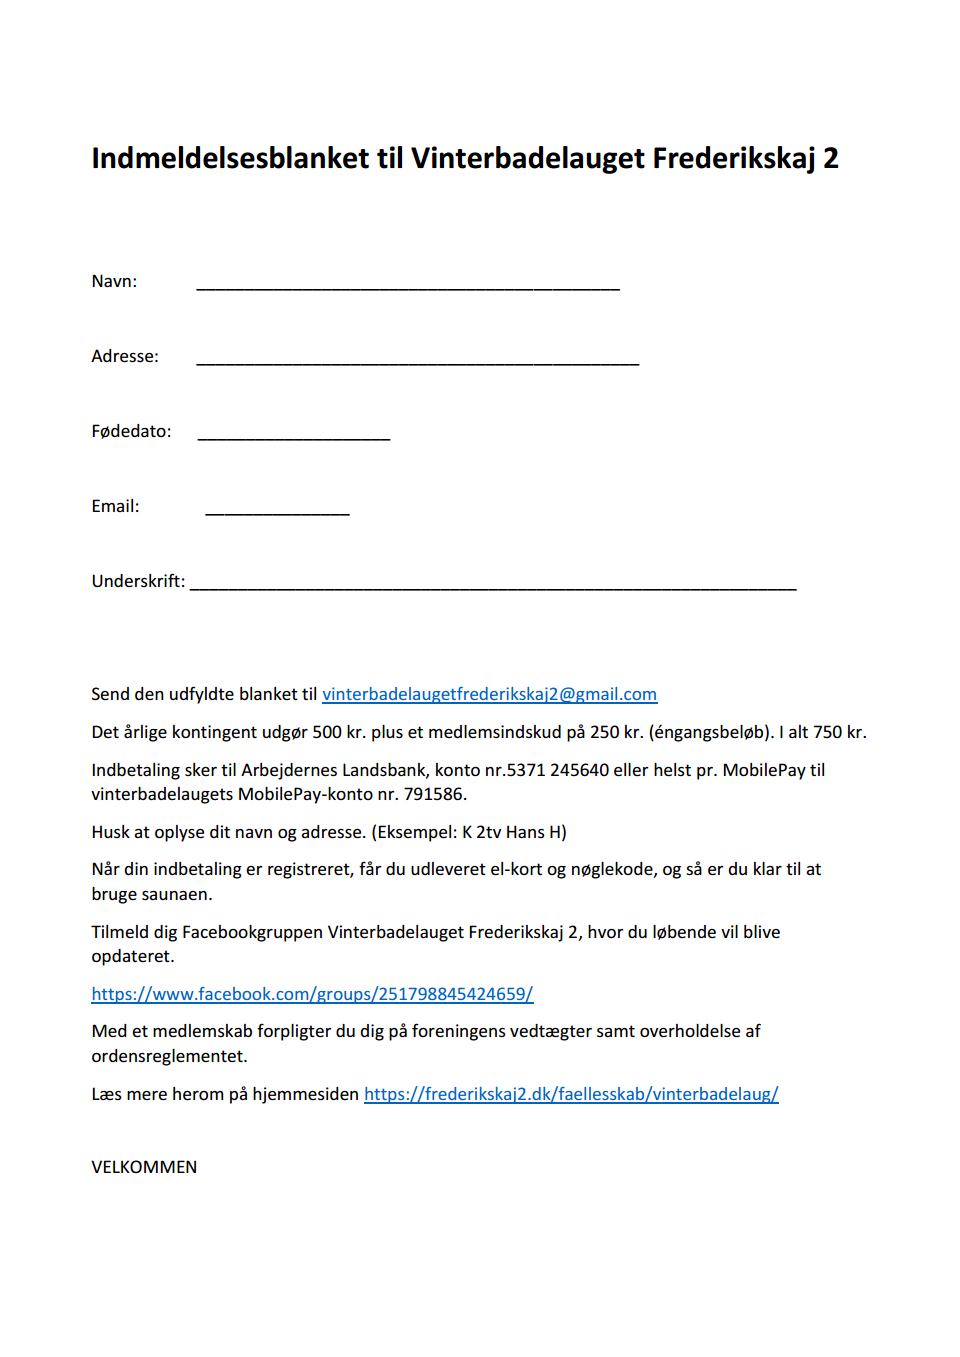
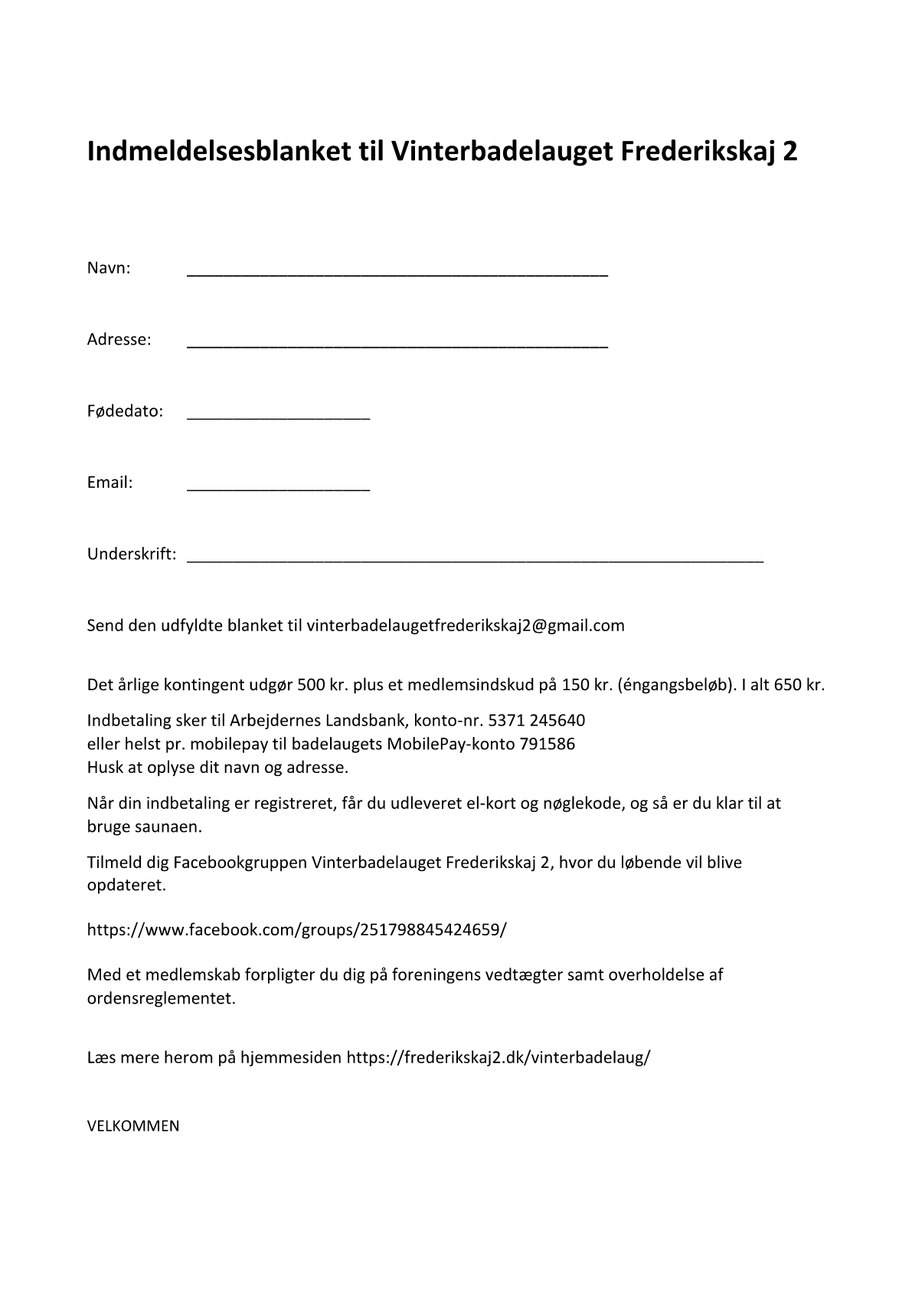
Opdatér oplysninger om vinterbadelauget

diff --git a/src/content/faellesskab/vinterbadelaug/bliv-medlem.md b/src/content/faellesskab/vinterbadelaug/bliv-medlem.md
@@ -6,7 +6,7 @@ sequence: 2
 ---
 Alle beboere på Frederikskaj&nbsp;2, der er fyldt 18 år, er velkomne som medlemmer. Omfattet er også de bådpladslejere, som ikke bor på Frederikskaj 2. Medlemmer, der er fraflyttet bebyggelsen, kan beholde deres medlemskab.
 
-Medlemskabet er personligt og koster 500&nbsp;kr. for en sæson plus 250&nbsp;kr. i indmeldelsesgebyr, hvoraf 100&nbsp;kr. er sat ind på el-kortet.
+Medlemskabet er personligt og koster 500&nbsp;kr. for en sæson plus 150&nbsp;kr. (engangsbeløb). I alt 650&nbsp;kr.
 
 Som medlem må du tage en gæst med i saunaen. Du har også mulighed for at booke saunaen til din egen private event. Det koster 250&nbsp;kr. for 1½&nbsp;time.
 

diff --git a/src/content/faellesskab/vinterbadelaug/vedtaegter.md b/src/content/faellesskab/vinterbadelaug/vedtaegter.md
@@ -1,7 +1,7 @@
 ---
 title: Vedtægter
 menuGroup: vinterbadelaug
-sequence: 8
+sequence: 7
 ---
 import vinterbadelaugVedtaegterPdf from './vedtaegter.pdf'
 import vinterbadelaugVedtaegterPng from './vedtaegter.png'
